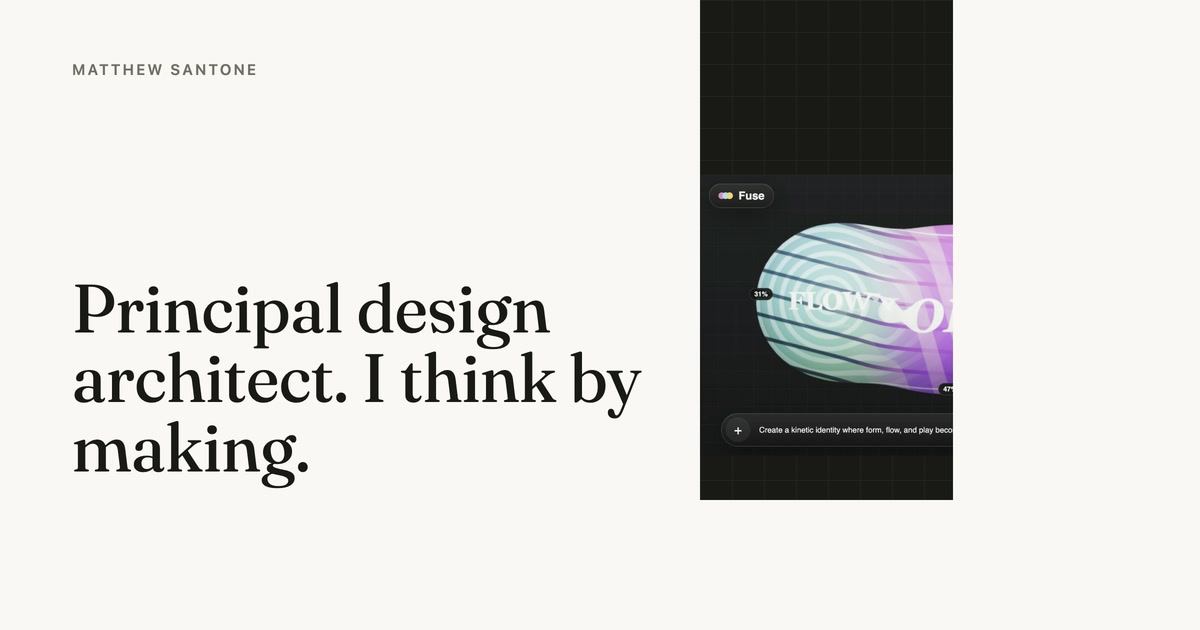
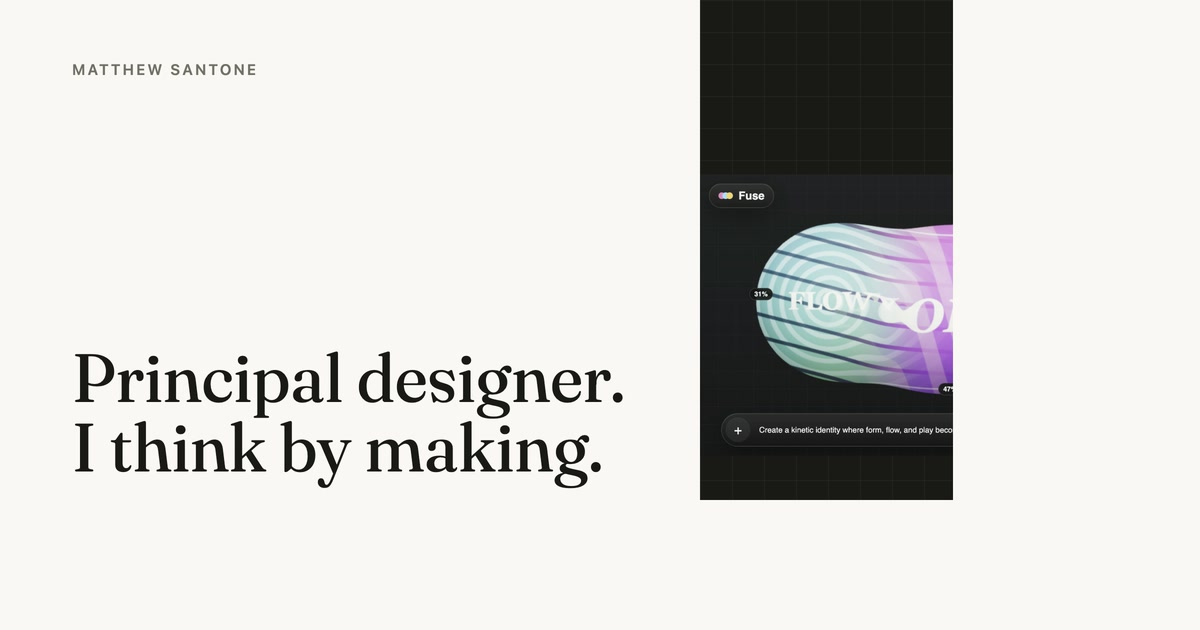
Lead with designer, then explain the range
The opening read like a retrospective inventory and then asked the
reader to decode an argument about disciplines and rooms. Start with
the plain answer instead: principal designer, and software that makes
complicated things easier to understand and use.

The second paragraph stays in the present tense and earns the breadth
by naming both the product domains and the parts of the practice that
move between them. Past tense remains where it belongs, in the project
receipts below.

Render the introduction as two paragraphs, keep the first story inside
the mobile first viewport, and update the Home social card to match.

Changed region(s): [[0.0617, 0.4524, 0.5242, 0.7841]]

diff --git a/src/content.js b/src/content.js
@@ -8,17 +8,19 @@
 
 const site = {
   name: "Matthew Santone",
-  tagline: "Principal design architect. I think by making.",
-  // Renders under the tagline on Home only. The main-story index follows before
-  // the four supporting statements, so the work stays in the first viewport.
-  intro:
-    "I have made developer tools, machine learning platforms, mixed reality, a satellite radio service, and the design systems underneath them. I design, I write the production code, and I publish. The range is not a detour. Most of what a hard problem needs sits outside the discipline that owns it, and somebody has to have been in both rooms.",
+  tagline: "Principal designer. I think by making.",
+  // The first paragraph says who Matthew is; the second establishes the breadth
+  // of an ongoing practice. Both stay in present tense.
+  intro: [
+    "I design software that makes complicated things easier to understand and use.",
+    "My work spans AI, developer tools, machine learning platforms, mixed reality, and consumer products. I move between product strategy, interaction design, prototyping, design systems, writing, and production code because the hardest problems rarely belong to one discipline.",
+  ],
   // Change this if the site moves to a custom domain. Used for canonical + OG URLs.
   url: "https://mjsantone.github.io/catterson/",
   email: "matthewsantone@gmail.com",
   social: {
     image: "assets/social/home.jpg",
-    alt: "Matthew Santone, principal design architect. I think by making.",
+    alt: "Matthew Santone, principal designer. I think by making.",
   },
   homeExternalPreview: {
     title: "Fuse",

diff --git a/src/templates.js b/src/templates.js
@@ -282,6 +282,11 @@ ${clip ? `<a class="p-1.5 leading-none text-ink-faint transition-[transform,colo
 }
 
 function home({ site, pieces, copies, inlineStories, archive = [] }) {
+  const introParagraphs = Array.isArray(site.intro)
+    ? site.intro
+    : site.intro
+      ? [site.intro]
+      : [];
   const entries = pieces
     .map(
       (p) => `<a class="group grid grid-cols-[1fr_auto] items-baseline gap-4 border-t border-line py-[clamp(1.6rem,4vh,2.4rem)] no-underline max-sm:grid-cols-1 max-sm:gap-2.5" id="${p.slug}" href="${p.slug}/">
@@ -386,7 +391,9 @@ ${site.capabilities.map((item) => `<li class="text-[1.15rem] leading-[1.45] text
 <header class="pt-[clamp(4rem,16vh,9rem)] pb-[clamp(2.5rem,7vh,4.5rem)]">
 <h1 class="${DISPLAY} max-w-[12em] text-[clamp(2.7rem,7.4vw,5.8rem)] leading-[1.0]" aria-label="${esc(site.name)}">${ransomName(site.name)}</h1>
 <p class="meta mt-6 text-ink-soft">${esc(site.tagline)}</p>
-${site.intro ? `<p class="mt-8 max-w-[34em] text-[1.2rem] leading-[1.6] text-pretty">${esc(site.intro)}</p>` : ""}
+${introParagraphs.length ? `<div class="mt-8 max-w-[34em] space-y-[1em] text-[1.2rem] leading-[1.6] text-pretty">
+${introParagraphs.map((paragraph) => `<p>${esc(paragraph)}</p>`).join("\n")}
+</div>` : ""}
 </header>
 <main id="main" class="flex-1">
 <nav class="border-b border-line" aria-label="Main stories">
